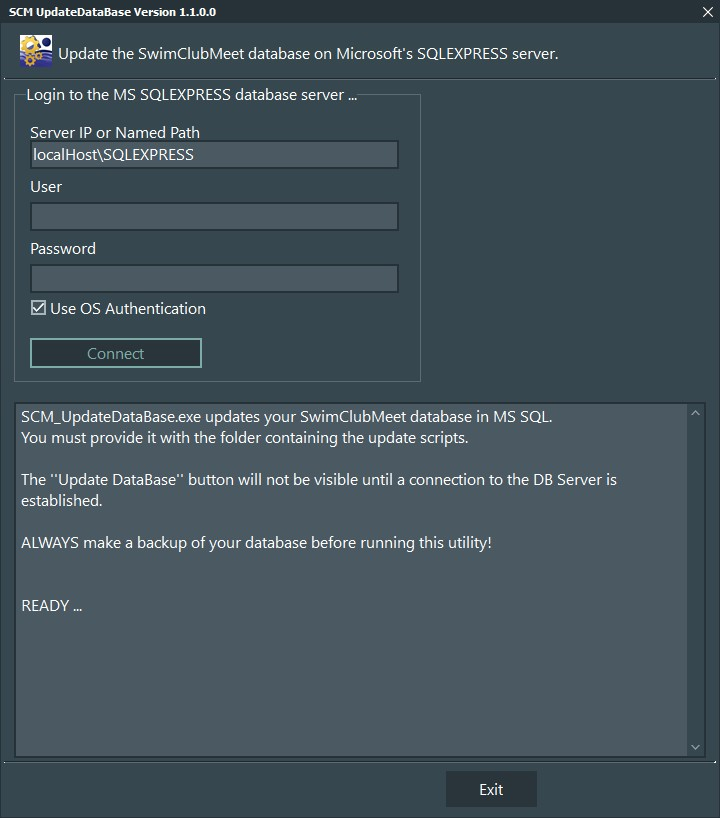
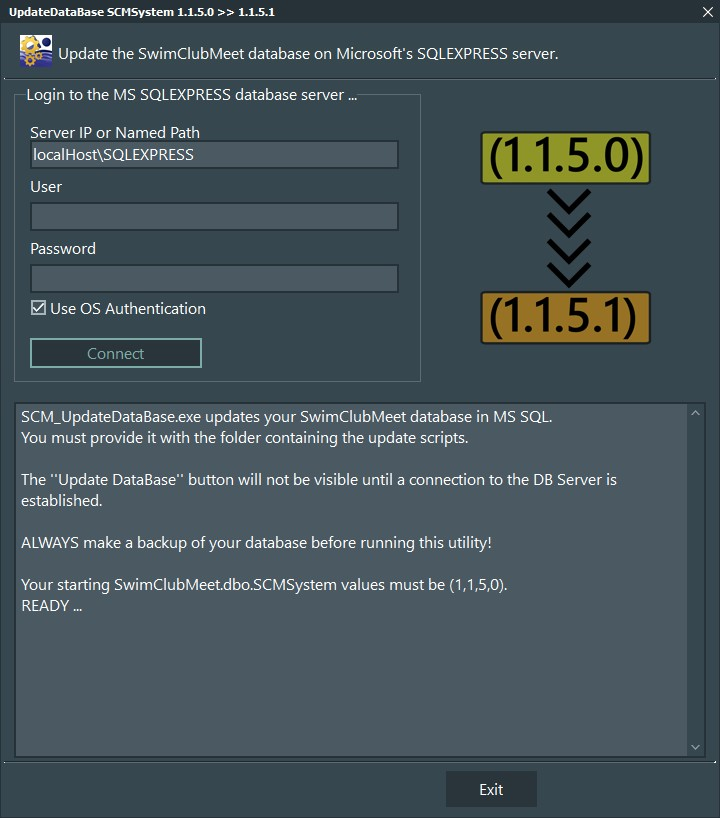
Version 1.5.1.0 completed

Changed region(s): [[0.6417, 0.1528, 0.9167, 0.4279], [0.0306, 0.7029, 0.7028, 0.7335], [0.0, 0.0, 0.3667, 0.0306]]

diff --git a/README.md b/README.md
@@ -25,24 +25,60 @@ After install, (by default) an icon isn't placed on the desktop. This is a servi
 
 >**ALWAYS** make a backup of your database before running this utility!
 
-The 'Update DataBase' button will not be visible until a connection to the database server has been established. UPDB requires the SQL command utility, sqlcmd.exe. If you are using this application to update the database on a remote database server, then sqlcmd.exe must be correctly pathed.
+The `Update DataBase` button will not be visible until a connection to the database server has been established. UPDB requires the SQL command utility, sqlcmd.exe. If you are using this application to update the database on a remote database server, then sqlcmd.exe must be correctly pathed.
 
->After connecting the application displays the current SCM database version you are running.
-
-After clicking the UpdateDataBase button you are prompted to select a folder.
-
-You must provide it with the folder containing the update scripts. The scripts are provided to you by developer. Delivery of these scripts is via email. Make sure your are on the developers mailing list!
-
-> **IMPORTANT** The scripts must match/synchronize to the SwimClubMeet database your are currently using.
-
-After selecting the folder you are prompted to confirm that you wish to update.
+After clicking the UpdateDataBase button you are prompted to confirm. Press `Yes`.
 
 ### ERRORS?
 
-Any errors created by sqlcmd.exe are displayed in UPDB's text window.
-
-A server side log file is also produced. This will be located in your documents folder with the filename **SCM_UpdateDataBase.log**. View this file should an error occur.
+The application's memo-pad displays progress and any errors. Additionally, check the log file for MS SQLEXPRESS errors. This can be found at `%USERPROFILE%\Documents\SCM_UpdateDataBase.log`.
 
 ---
 
-![ScreenShot of UPDB after logging in.](ASSETS/Screenshot%202022-09-09%20111933.JPG)
+![ScreenShot of UPDB after logging in.](ASSETS/Screenshot%202022-09-09%20113118.JPG)
+
+---
+
+## SCM UpdateDataBase_64bit_v1.5.1.0.exe 2023/02/23
+
+For users running database SCMSystem values: (1,1,5,0).
+
+> It takes your (1,1,5,0) database and turns it into (1,1,5,1)
+
+Any of these core application versions can run on this database.
+
+- SCM_SwimClubMeet_32bit_v1.5.4.0
+- SCM_SwimClubMeet_32bit_v1.5.3.0
+- SCM_SwimClubMeet_x32_v1.5.2.0
+- SCM_SwimClubMeet_x32_v1.5.1.0
+
+Notes on this update.
+
+- Fixes scalar function. `dbo.IsMemberNominated.UserDefinedFunction.sql`.
+- New field: `SwimClubMeet.dbo.Member.IsSwimmer` (BIT).
+- Sets DEFAULT on fields `IsArchived`, `IsActive` and `IsSwimmer` in SwimClubMeet.dbo.Member.
+- Re-index (changed field orders) in table `dbo.Member`. 
+- Repairs default values for fields IsArchived and IsActive on existing records in SwimClubMeet.dbo.Member. (If they read NULL.)
+- Updates SCMSystem values to: (1,1,5,1).
+
+Special note:
+
+After the update a temporary table with the name `Member_` followed by a large hash number will appear in the database. After testing, you may remove this table. It's also safe to leave it.
+
+---
+
+## SCM UpdateDataBase_x64_v1.1.0.0.exe 09/09/2022
+
+***Who should use this update?***
+
+>For use ONLY by early adopters of the SCM project.
+
+If you created your database by using SCM_BuildMeAClub_x64_v1.1.0.0 then you ***DON'T*** need this update! 😃.
+
+Notes on this update.
+
+- Takes a very old 1.0.0.0 version and bring it up to date.
+- It requires delivery of SQL scripts from the developer!
+- Updates SCMSystem values to: (1,1,5,0)
+
+---
